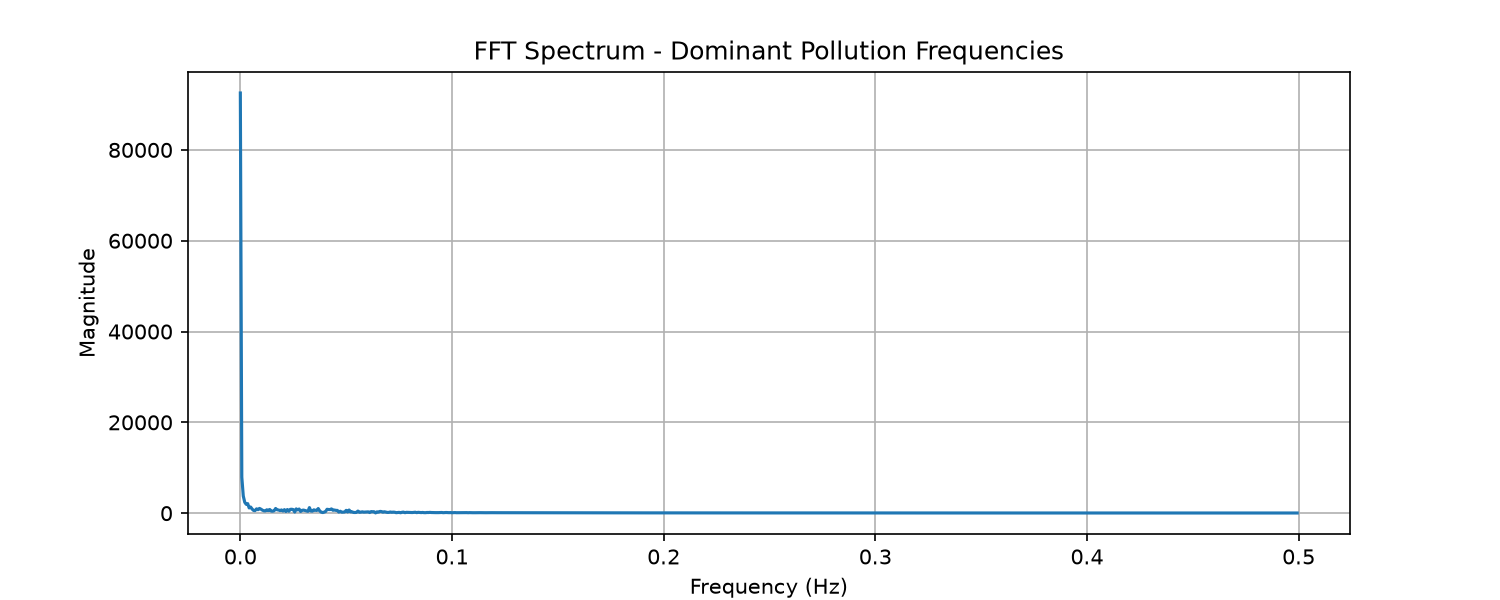
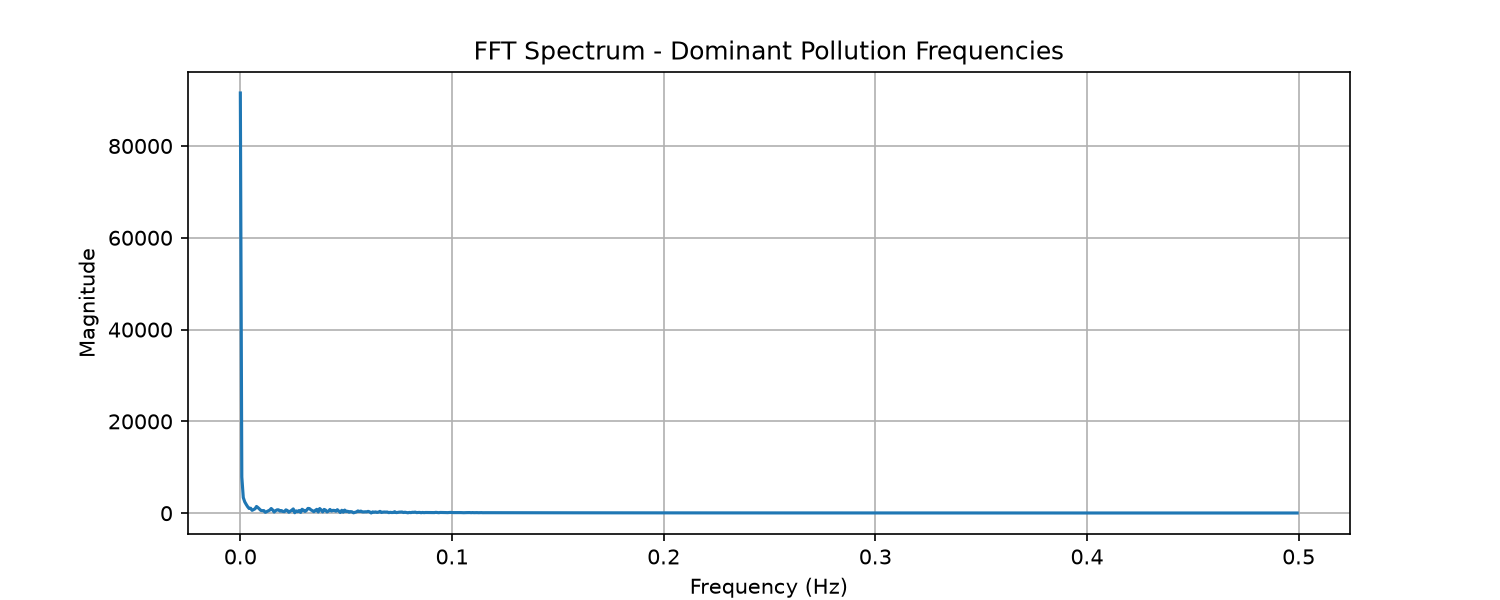
Update README and result graphs

diff --git a/README.md b/README.md
@@ -1,10 +1,10 @@
-Air Pollution Monitoring using Digital Filters and Fast Fourier Transform
+## Air Pollution Monitoring using Digital Filters and Fast Fourier Transform
 
-DSP Case Study - B.Tech ECE
+### DSP Case Study - B.Tech ECE
 
-System
+    System
 
-Abstract
+#### Abstract
 
 Air pollution is a critical environmental issue. Raw sensor data (PM2.5, PM10, NO2, CO) is highly noisy due to sensor drift, environmental interference, and quantization noise. This case study demonstrates how Digital Signal Processing techniques - specifically Digital Filters (Moving Average, FIR Low-pass, IIR Butterworth) and Fast Fourier Transform (FFT) - can be used to clean, analyze, and extract meaningful patterns from air pollution data for real-time AQI monitoring and alert systems.
 
@@ -26,7 +26,7 @@ Air pollution is a critical environmental issue. Raw sensor data (PM2.5, PM10, N
 
   
 
-         Sensors -> ADC -> Pre-processing -> Digital Filters -> FFT -> Feature Extraction & AQI -> Visualization & Alert
+     Sensors -> ADC -> Pre-processing -> Digital Filters -> FFT -> Feature Extraction & AQI -> Visualization & Alert
   
   See images/block_diagram.png
 
@@ -79,7 +79,7 @@ Air pollution is a critical environmental issue. Raw sensor data (PM2.5, PM10, N
   ML integration, Wavelet transform, ESP32 edge implementation
 
 
-References
+#### References
   
   Proakis & Manolakis, Oppenheim, CPCB AQI Guidelines, WHO 2024
 
@@ -87,3 +87,17 @@ References
 ## Results Graphs
     ![Filtered Result](images/filtered_result.png)
     ![FFT Spectrum](images/fft_spectrum.png)
+
+
+## How to Run (For Anyone)
+
+1. Clone this repo:
+   git clone https://github.com/varateja-lgtm/DSP-CASE-STUDY-.git
+
+2. Install requirements:
+   pip install -r requirements.txt
+
+3. Run:
+   python code/main.py
+
+Results will be saved in images/ folder.
